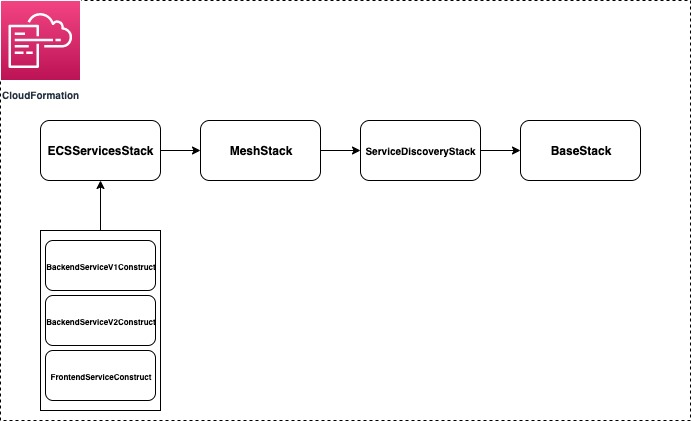
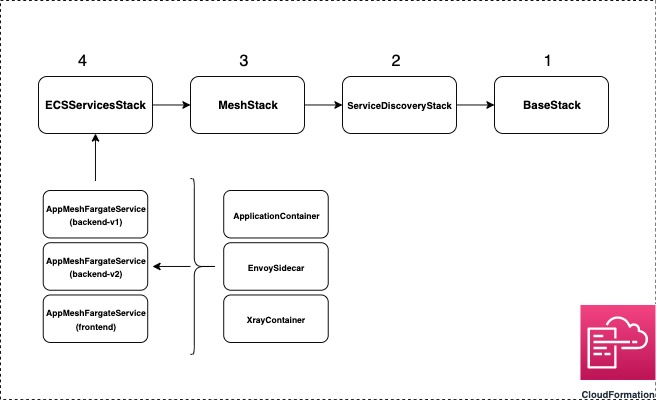
updated stack diagram and removed test case typo

diff --git a/walkthroughs/cdk-examples/howto-alb/test/howto-alb-cdk.test.ts b/walkthroughs/cdk-examples/howto-alb/test/howto-alb-cdk.test.ts
@@ -91,5 +91,3 @@ test("The virtual route has a proper prefix match", () => {
     Spec: { HttpRoute: Match.objectLike({ Match: { Prefix: "/" } }) },
   });
 });
-
-test("");

diff --git a/walkthroughs/cdk-examples/howto-alb/README.md b/walkthroughs/cdk-examples/howto-alb/README.md
@@ -31,14 +31,14 @@ The entire infrastructure is provisioned using the AWS Cloud Development Kit (CD
 ✨  Deployment time: 24.01s
 
 Outputs:
-BaseStackServiceDiscoveryStackMeshStackECSServicesStack8E43077C.PublicEndpoint = frontend-xxxxxxxxxx.us-east-1.elb.amazonaws.com
+BaseStackServiceDiscoveryStackMeshStackECSServicesStack8E43077C.URL = frontend-xxxxxxxxxx.us-east-1.elb.amazonaws.com
 Stack ARN:
 arn:aws:cloudformation:us-east-1:xxxxxxxxxx:stack/ECSServicesStack/xxxxxxxxxx-xxxx-xxxx-xxxx-xxxxxxxxxxxx
 
 ✨  Total time: 26.74s
 ```
 
-- Copy the `PublicEndpoint` URL and `curl` the `/color` endpoint it to get the response.
+- Copy the `URL` URL and `curl` the `/color` endpoint it to get the response.
 
 ```c
 ➜  howto-alb git:(feature-cdk) ✗ curl frontend-xxxxxxxxxx.us-east-1.elb.amazonaws.com/color
@@ -64,7 +64,7 @@ BaseStack/ServiceDiscoveryStack/MeshStack/ECSServicesStack (ECSServicesStack): d
 
 #### There are three AWS Fargate services
 
-1.  `frontend` - which is registered behind public ALB and has an Envoy proxy sidecar attached to it. This service is discoverable via the `PublicEndpoint` mentioned above, which uses the ALB's DNS. `frontend` is also an App Mesh **virtual node** that routes data to the two backend services.
+1.  `frontend` - which is registered behind public ALB and has an Envoy proxy sidecar attached to it. This service is discoverable via the `URL` mentioned above, which uses the ALB's DNS. `frontend` is also an App Mesh **virtual node** that routes data to the two backend services.
 2.  `backend-v1` - which is registered behind an internal ALB. This service is registered as a **virtual node** that is discoverable to `frontend` using the ALB's DNS `backend.howto-alb.hosted.local` (configured as a AWS Route53 hosted zone).
 3.  `backend-v2` - which uses AWS CloudMap service discovery using a private DNS namespace `backend-v2.howto-alb.pvt.local` and represents another **virtual node** .
 
@@ -91,6 +91,8 @@ _Note - The `cdk boostrap` command provisions a `CDKToolkit` Stack to deploy AWS
 2. `ServiceDiscoveryStack` - provisions the 2 ALBs used by `frontend` and `backend-v1` and the CloudMap service used by `backend-v2`.
 3. `MeshStack` - provisions the different mesh components like the frontend and backend virtual nodes, virtual router and the backend virtual service.
 4. `ECSServicesStack` - this stack provisions the 3 Fargate services using a custom construct `AppMeshFargateService` which encapsulates the application container, Envoy sidecar/proxy and the Xray container into a single construct allowing us to easily spin up different 'meshified' Fargate Services.
+
+Three more constructs - `EnvoySidecar`, `XrayContainer` and `ApplicationContainer` bundle the common container options used by these Fargate services.
 
 <p align="center">
   <img width="600" height="350" src="assets/stacks.jpg">
@@ -180,7 +182,7 @@ this.backendRoute = new appmesh.Route(this, `${this.stackIdentifier}_BackendRout
 
 ## Project Structure
 
-The skeleton of the project is generated using the `cdk init sample-app --language typescript` command. By default, your main `node` app sits in the `bin` folder and the cloud infrastructure is provisioned in the `lib` folder.
+The skeleton of the project is generated using the `cdk init app --language typescript` command. By default, your main `node` app sits in the `bin` folder and the cloud infrastructure is provisioned in the `lib` folder.
 
 In the `cdk.json` file, we define enviroment variables: For example: `PROJECT_NAME` and `CONTAINER_PORT` refer to the name of this project and the ports at which the Flask applications (`feapp` and `colorapp`) are exposed in the containers. These variables can be fetched within the application using a Construct's `node.tryGetContext` method.
 
@@ -194,7 +196,7 @@ Using the `aws-ecr-assets.DockerImageAsset` construct, you can push your applica
 
 ```c
 // BaseStack
-this.frontendAppImageAsset = new assets.DockerImageAsset(this, `${this.stackIdentifier}_FrontendAppImageAsset`, {
+this.frontendAppImageAsset = new assets.DockerImageAsset(this, `${this.stackName}FrontendAppImageAsset`, {
       directory: ".././howto-alb/feapp",
       platform: assets.Platform.LINUX_AMD64,
     });
